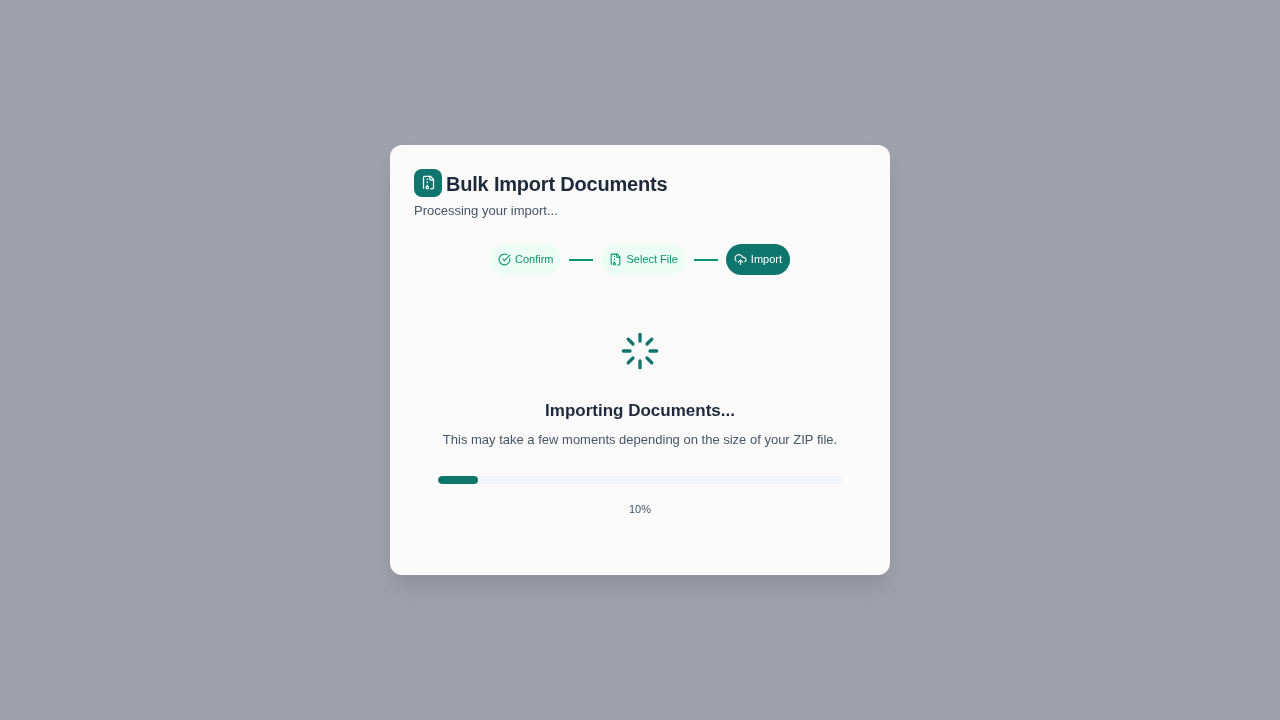
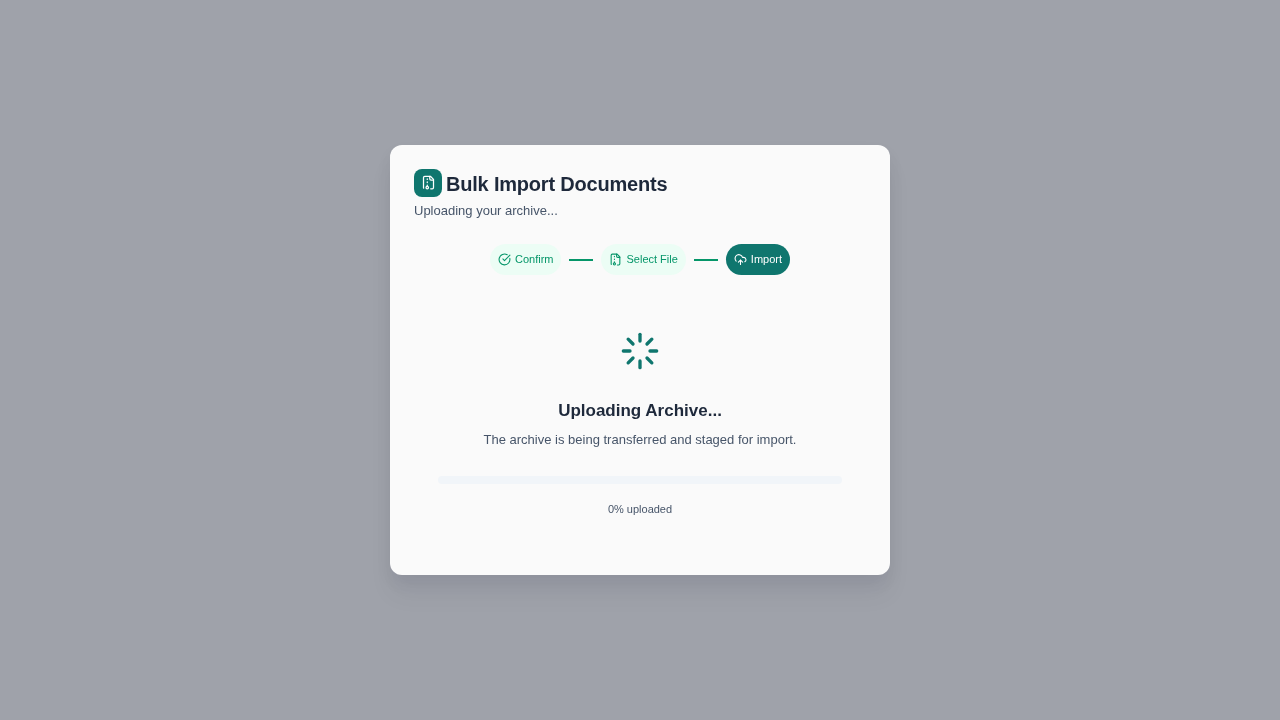
Stabilize bulk import component coverage

diff --git a/frontend/tests/bulk-import-modal.ct.tsx b/frontend/tests/bulk-import-modal.ct.tsx
@@ -233,16 +233,24 @@ test.describe("BulkImportModal", () => {
     // Click Start Import to trigger the progress step
     await page.locator('button:has-text("Start Import")').click();
 
-    // Progress step should show spinner, heading, and progress bar
-    await expect(page.locator("text=Importing Documents...")).toBeVisible({
+    // While the HTTP request is pending, the archive has not yet been accepted
+    // and the modal should clearly distinguish upload from background import.
+    await expect(
+      page.getByRole("heading", { name: "Uploading Archive..." })
+    ).toBeVisible({
       timeout: 10000,
     });
     await expect(
-      page.locator("text=This may take a few moments")
+      page.getByText(
+        "The archive is being transferred and staged for import.",
+        {
+          exact: true,
+        }
+      )
     ).toBeVisible();
 
     // Progress percentage should be visible
-    await expect(page.locator("text=%")).toBeVisible();
+    await expect(page.getByText(/% uploaded$/)).toBeVisible();
 
     // Close button should be hidden during progress
     await expect(page.locator('button:has-text("Cancel")')).not.toBeVisible();
@@ -275,6 +283,9 @@ test.describe("BulkImportModal", () => {
       <BulkImportTestWrapper
         mocks={[
           {
+            // The modal polls this query until it is unmounted, so keep the
+            // queued response available for every polling request.
+            maxUsageCount: Number.POSITIVE_INFINITY,
             request: {
               query: GET_BULK_DOCUMENT_UPLOAD_STATUS,
               variables: { jobId: "test-job-queued" },
@@ -300,22 +311,30 @@ test.describe("BulkImportModal", () => {
       </BulkImportTestWrapper>
     );
 
-    await page.locator('button:has-text("Continue")').click();
-    const fileInput = page.locator('input[type="file"][accept=".zip"]');
-    await fileInput.setInputFiles({
-      name: "queued.zip",
-      mimeType: "application/zip",
-      buffer: Buffer.from("PK\x03\x04dummy-zip-content"),
-    });
-    await page.locator('button:has-text("Start Import")').click();
+    try {
+      await page.locator('button:has-text("Continue")').click();
+      const fileInput = page.locator('input[type="file"][accept=".zip"]');
+      await fileInput.setInputFiles({
+        name: "queued.zip",
+        mimeType: "application/zip",
+        buffer: Buffer.from("PK\x03\x04dummy-zip-content"),
+      });
+      await page.locator('button:has-text("Start Import")').click();
 
-    await expect(
-      page.locator("text=Archive uploaded. Documents are being processed")
-    ).toBeVisible();
-    await expect(page.locator("text=Job ID: test-job-queued")).toBeVisible();
-    await expect(page.locator('button:has-text("Close")')).toBeVisible();
-    await expect(page.locator("text=Bulk Import Documents")).toBeVisible();
-
-    await component.unmount();
+      await expect(
+        page.getByText(
+          /The archive was uploaded\. Documents are being processed/i
+        )
+      ).toBeVisible();
+      await expect(
+        page.getByText("Job ID: test-job-queued", { exact: true })
+      ).toBeVisible();
+      await expect(page.locator('button:has-text("Close")')).toBeVisible();
+      await expect(page.locator("text=Bulk Import Documents")).toBeVisible();
+    } finally {
+      // Stop polling even when an assertion fails, so the mock is not reused
+      // by a still-mounted component during test cleanup or retries.
+      await component.unmount();
+    }
   });
 });
